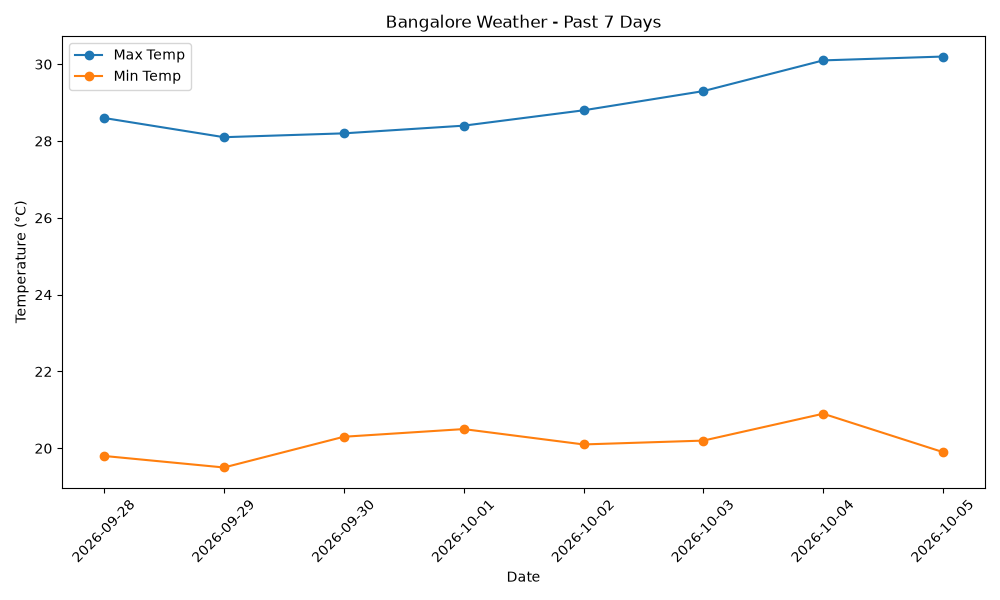
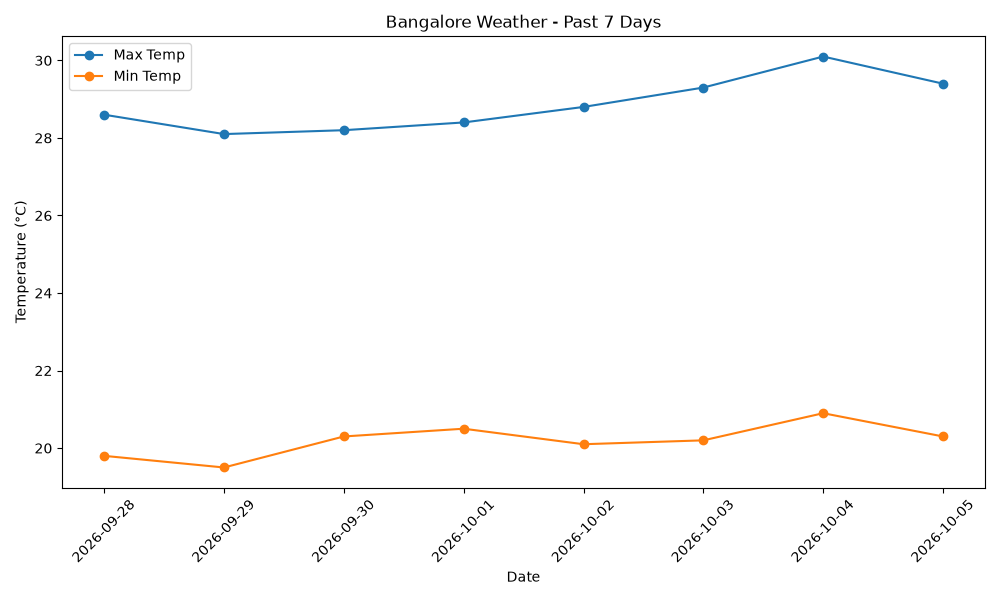
feat: Add CSV export for weather data

diff --git a/weather-request-api.py b/weather-request-api.py
@@ -1,4 +1,5 @@
 import requests
+import os
 import pandas as pd 
 import matplotlib.pyplot as plt
 from datetime import datetime, timedelta
@@ -42,3 +43,9 @@ plt.tight_layout()
 
 plt.savefig('weather_chart.png')
 plt.show()
+
+if not os.path.exists('data'):
+    os.makedirs('data')
+
+df.to_csv('data/bangalore_weather.csv', index=False)
+print('Data saved to data/bangalore_weather.csv')
